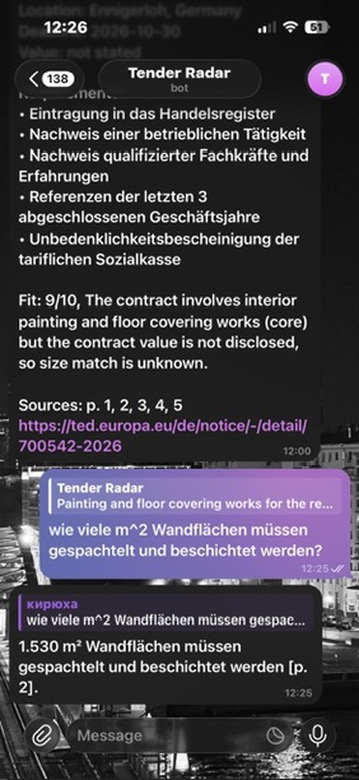
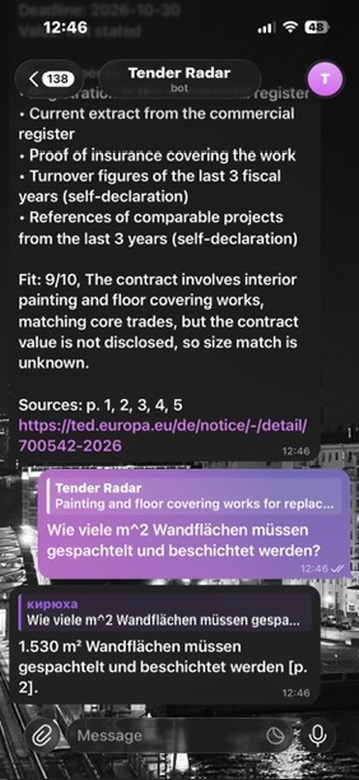
Add README, license and env example

diff --git a/README.md b/README.md
@@ -1,7 +1,293 @@
 # Tender Radar
 
-Automated pipeline that pulls fresh construction tenders from the EU TED API, indexes their documents, and delivers short tender cards to Telegram with cited Q&A. Orchestrated with n8n, powered by a FastAPI RAG service.
+An automated pipeline that pulls fresh construction tenders from the EU TED API every
+morning, reads their documents, and sends a short tender card to Telegram. Reply to a card
+with a question and get an answer grounded in that tender's document, with page citations.
+Orchestrated with n8n; parsing, retrieval and LLM calls live in a small FastAPI service.
+
+Every claim the bot makes is **checked, not trusted**: answers must cite a page or are
+dropped, unanswerable questions get "not found" instead of a guess, cards the model is
+unsure about are flagged for human review, and retrieval quality is measured on a
+labelled question set ([eval/](eval/)).
+
+## Screenshots
+
+<p align="center">
+  <img src="screenshots/card.jpeg" width="24%" />
+  <img src="screenshots/answer.jpeg" width="24%" />
+  <img src="screenshots/not-found.jpeg" width="24%" />
+  <img src="screenshots/error.jpeg" width="24%" />
+</p>
+
+From left to right: **tender card** (German notice, card in English, fit score with its
+reason); **cited answer** to a German question, page reference included; **honest
+refusal** when the document does not contain the answer; **failure alert** from the
+shared error workflow, here with the service deliberately stopped.
 
 ---
 
-Work in progress.
+## Overview
+
+### The problem
+
+A construction company that wants public contracts has to watch tender portals daily,
+open each notice, and read several pages of German procurement language to learn what is
+built, where, by when, and what a bidder must prove. Most notices turn out to be the wrong
+trade. Tender Radar does the first pass: it reads every new notice, extracts the facts
+into a card, scores how well the tender fits the company, and lets a person ask follow-up
+questions without opening the PDF.
+
+### How it works
+
+![Architecture](docs/architecture.svg)
+
+1. **Fetch** — every day at 8:00, n8n queries TED for open German construction tenders
+   (CPV 45000000) published in the last 3 days, drops expired deadlines and tenders
+   already processed.
+2. **Ingest** — for each new tender the service downloads the notice PDF, splits it into
+   page-aware chunks, embeds them with a local multilingual model and stores them in
+   ChromaDB, tagged with the tender id and page.
+3. **Card** — the service retrieves the chunks most relevant to each card field and asks
+   the LLM for a structured JSON card. Code validates the card and computes the fit score.
+4. **Notify** — n8n formats the card and sends it to Telegram.
+5. **Ask** — replying to a card sends the question to the service, which searches only
+   that tender's chunks and answers with page citations.
+6. **Alert** — any failed workflow triggers a shared error workflow that reports the
+   workflow, node and error in Telegram.
+
+### Modular n8n workflows
+
+| Workflow | Role |
+|---|---|
+| `fetch-tenders` | schedule → TED search → filter open deadlines → deduplicate → call `process-tender` |
+| `process-tender` | reusable sub-workflow: ingest → card → send card |
+| `answer-question` | Telegram reply → tender id from the replied card → ask → send answer |
+| `error-handler` | shared error workflow for all of the above |
+
+Exported workflows are in [workflows/](workflows/).
+
+### Design decisions that came from testing
+
+- **The LLM classifies, code decides.** Asking the model for a 0–10 fit score gave 9 and
+  then 6 for the same tender with the same reason. Now the model only answers two
+  multiple-choice questions (is this our trade: core / adjacent / none; does the size fit:
+  fits / unknown / too large / too small) and code turns them into points. Three runs over
+  four tenders gave identical scores, and every point can be explained.
+- **Retrieval queries in the document's language.** Card queries were first written in
+  English and missed the deadline in a German notice. German TED notices share one
+  template, so the queries now use its exact German field labels ("Frist für den Eingang
+  der Angebote"); the deadline was then found in all four test tenders.
+- **The relevance floor is only a noise filter.** An on-topic question with no answer
+  ("Who is the architect?") scored 0.42 similarity, higher than real answers (0.30).
+  Similarity measures topical closeness, not answer presence, so the floor (0.2) only
+  rejects off-topic questions; the grounded prompt handles the rest.
+
+### Guardrails
+
+| Risk | Guardrail |
+|---|---|
+| Guessing when the document is silent | relevance floor + grounded prompt return "not found" |
+| Uncited claims | an answer without a valid excerpt reference is dropped; page references are added in code |
+| Prompt injection from tender text | document and question reach the model only inside `<document>` / `<question>` tags, declared untrusted |
+| Malformed or unsure cards | JSON schema check; missing deadline, low confidence, invalid sources → "needs human review" |
+| Huge or broken PDFs | size (10 MB), page (50) and download-time (30 s) limits; non-PDF content rejected |
+| Burning the free tier | daily token budget (150k) checked before every LLM call |
+| Transient failures | per-minute rate limits waited out, retries on network errors, alert on final failure |
+
+---
+
+## Results
+
+### Q&A quality
+
+Evaluation set: 15 hand-written questions over 4 real tenders, in English, German and
+Russian: 12 answerable (expected page labelled) and 3 whose answer is not in the
+document. Run: [eval/run_eval.py](eval/run_eval.py), results: [eval/results.json](eval/results.json).
+
+| Metric | Result |
+|---|---|
+| Retrieval hit@1 (answer page ranked first) | 10/12 |
+| Retrieval hit@3 | 11/12 |
+| **Correct answers** | **11/12** |
+| **Correct refusals** (answer not in the document) | **3/3** |
+
+A first run gave 7/12 correct answers. Two settings were tuned on this same set (top-k
+5 → 8, relevance floor 0.3 → 0.2), so the 11/12 is optimistic; see Error Analysis.
+
+### Operations
+
+Measured from the service's request log (`GET /metrics`, SQLite) over one day of use:
+49 requests: 15 ingests, 24 cards, 10 questions.
+
+| Metric | Median |
+|---|---|
+| Ingest (download + parse + embed) | 1.7 s |
+| Card generation | 2.3 s, ~3,300 tokens |
+| Question answer | 0.9 s, ~1,600 tokens |
+| **Per tender, processing** (ingest + card) | **~4 s, ~3,300 tokens** |
+| Failed requests | 2 of 49: one deliberate test, one rate-limit failure before rate-limit waiting was added |
+
+**Time saved (assumption, not measured):** reading a 5–7 page German notice to extract
+scope, deadline and requirements and to judge fit takes an estimated 10–15 minutes. The
+card takes about 30 seconds to read. At 10 relevant tenders a day that is roughly 1.5–2
+hours of reading replaced by 5 minutes.
+
+---
+
+## Error Analysis
+
+- **German terms vs English questions.** "Which review body handles complaints?" was
+  answered with "the contracting authority" instead of the Vergabekammer Westfalen. The
+  right chunk ("Überprüfungsstelle: …") ranked 15th: the multilingual embedding model
+  matches formal German procurement terms poorly to English wording. "When do the works
+  start?" had the same problem ("Datum des Beginns" ranked 8th) and is only solved by the
+  wider top-k. Candidates: hybrid keyword + vector search, or translating the question
+  into German before retrieval.
+- **Tuned on the test set.** Top-k and the relevance floor were adjusted after looking at
+  failures of these 15 questions. A fresh question set would give a fairer number.
+- **Small evaluation.** 12 answerable questions, so one question is 8 percentage points;
+  results are directional.
+- **Only the notice, not the full tender documents.** TED hosts the notice (typically 5–7
+  pages). The full documentation sits on procurement portals that often require
+  registration, so cards and answers cover what the notice states.
+- **Contract value is rarely published.** Only 15 of 100 recent German construction
+  notices state an estimated value, so the size part of the fit score is usually
+  "unknown".
+- **Five tenders per run.** The TED query takes the first 5 matching notices per run, a
+  cap set for the free LLM tier while testing. One card costs ~3,300 tokens, so the daily
+  budget would allow about 45; raise `limit` in the `Search TED` node.
+- **A failed tender is not retried automatically.** Deduplication records a tender
+  before it is processed; if processing fails, the alert names it, but it will not be
+  picked up again on the next run.
+- **The model sometimes copies German.** Requirements were occasionally left in German
+  despite the instruction; repeating the instruction after the document fixed it in
+  testing, but it is a prompt, not a guarantee.
+
+---
+
+## Tech Stack
+
+| Layer | Tools |
+|---|---|
+| Orchestration | n8n (schedule, HTTP, sub-workflows, error workflow, Telegram) |
+| Service | Python, FastAPI, Pydantic |
+| Parsing | PyMuPDF (text per page, page numbers for citations) |
+| Embeddings | sentence-transformers, `paraphrase-multilingual-MiniLM-L12-v2` (local, CPU) |
+| Vector store | ChromaDB |
+| LLM | Groq API, `openai/gpt-oss-20b`, JSON mode, behind one swappable module |
+| Metrics | SQLite request log, `GET /metrics` |
+| Interface | Telegram bot |
+| Infrastructure | Docker Compose, Cloudflare quick tunnel for the Telegram webhook |
+| Tests | pytest (32 tests, no network or LLM needed) |
+
+---
+
+## Project Structure
+
+```
+├── service/
+│   ├── app/
+│   │   ├── main.py        # FastAPI: /ingest, /card, /ask, /metrics, /health
+│   │   ├── ingest.py      # download PDF (limits) -> parse pages -> chunk -> embed -> ChromaDB
+│   │   ├── card.py        # field queries -> LLM card -> schema check, review flags, fit score
+│   │   ├── ask.py         # tender-scoped retrieval -> grounded answer with page citations
+│   │   ├── llm.py         # the only file that talks to the LLM provider: retries, budget
+│   │   ├── metrics.py     # SQLite request log, daily token count, /metrics summary
+│   │   └── config.py      # every tunable: limits, model, chunking, fit-score profile
+│   ├── tests/             # parsing, chunking, PDF limits, guardrails, API validation
+│   └── Dockerfile
+├── workflows/             # exported n8n workflows (chat id replaced by a placeholder)
+├── eval/
+│   ├── questions.json     # labelled questions: expected page and accepted answers
+│   ├── run_eval.py        # hit@1, hit@3, answer correctness, refusals
+│   └── results.json       # last run
+├── scripts/
+│   ├── start.sh           # start everything, wire the tunnel address into n8n
+│   └── export_workflows.py
+├── docs/architecture.svg
+├── screenshots/
+├── docker-compose.yml     # n8n + service + tunnel
+└── .env.example
+```
+
+---
+
+## Getting Started
+
+### Prerequisites
+
+- Docker Desktop
+- A Telegram bot token from [@BotFather](https://t.me/BotFather) and your chat id
+  (send any message to [@userinfobot](https://t.me/userinfobot))
+- A free Groq API key from [console.groq.com](https://console.groq.com)
+
+### Run
+
+```bash
+git clone https://github.com/Kirill-ark/tender-radar.git
+cd tender-radar
+cp .env.example .env          # put your Groq key into .env
+./scripts/start.sh
+```
+
+`start.sh` builds the service, opens a Cloudflare tunnel (a public HTTPS address that
+Telegram needs to deliver messages) and starts n8n with that address. The first build
+downloads the embedding model and takes a few minutes.
+
+### Set up n8n
+
+1. Open http://localhost:5678 and create the local owner account.
+2. Create a **Telegram** credential with your bot token.
+3. Import the four files from `workflows/` (Workflows → Import from File), select your
+   Telegram credential in each Telegram node, and replace `YOUR_TELEGRAM_CHAT_ID` with
+   your chat id.
+4. In `fetch-tenders`, `process-tender` and `answer-question` set Settings → Error
+   Workflow to `error-handler`, and point the `Call 'process-tender'` node to your
+   imported `process-tender`.
+5. Publish all four workflows.
+
+The quick tunnel gets a new address on every start, and n8n registers the Telegram webhook
+only when a workflow is published. After a restart, unpublish and publish
+`answer-question` once so that replies reach the bot again.
+
+### Tests and evaluation
+
+```bash
+docker compose exec service python -m pytest -q
+docker compose exec service python -m eval.run_eval
+```
+
+The evaluation needs the four tenders from `eval/questions.json` to be ingested
+(run `fetch-tenders` while they are open, or call `/ingest` for them).
+
+---
+
+## API
+
+`POST /ingest` — download and index one tender notice.
+
+```json
+{"tender_id": "674261-2026", "pdf_url": "https://ted.europa.eu/de/notice/674261-2026/pdf"}
+→ {"tender_id": "674261-2026", "chunks": 50}
+```
+
+`POST /card` — structured card for an ingested tender.
+
+```json
+{"tender_id": "674261-2026"}
+→ {"card": {"what": "...", "location": "...", "deadline": "2026-11-02", "requirements": [...],
+            "trade_match": "core", "size_match": "unknown", "fit_score": 9, "fit_reason": "..."},
+   "citations": [{"file": "674261-2026.pdf", "page": 1}, ...],
+   "needs_review": false, "review_reasons": [], "usage": {...}}
+```
+
+`POST /ask` — answer a question from one tender's document.
+
+```json
+{"tender_id": "674261-2026", "question": "How many references are required?"}
+→ {"found": true, "answer": "Three references are required [p. 4].",
+   "citations": [{"file": "674261-2026.pdf", "page": 4}], ...}
+```
+
+`GET /metrics` — request counts, failure rate, durations and tokens per endpoint, tokens
+spent today. `GET /health` — liveness check.
